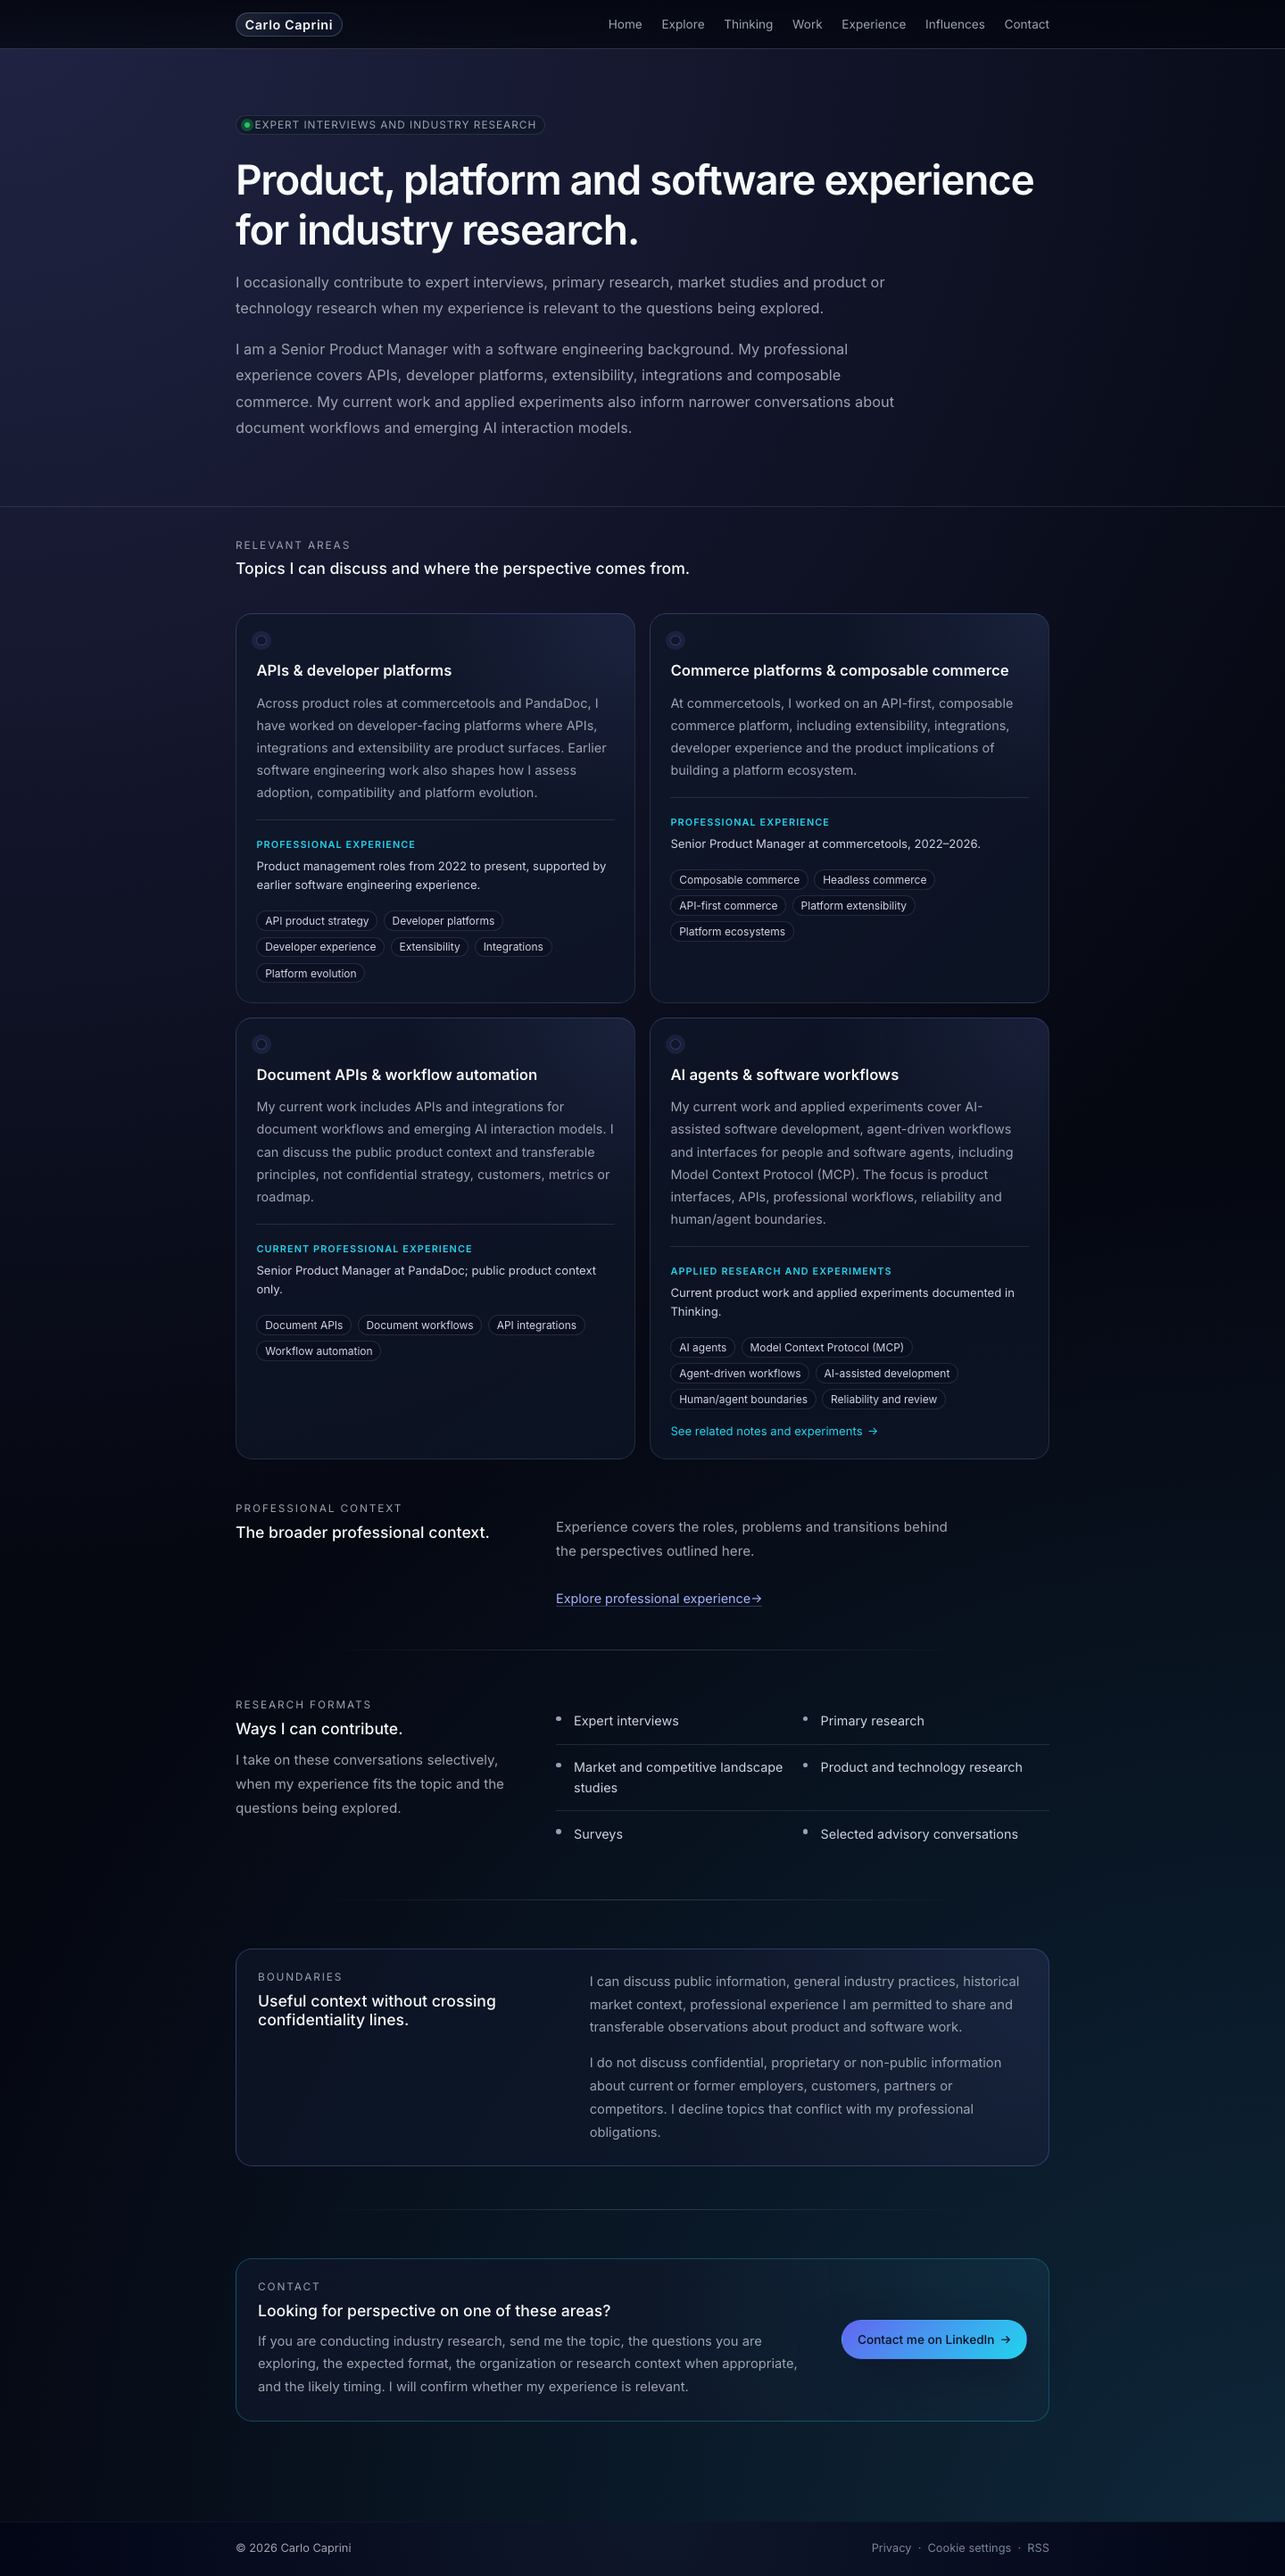
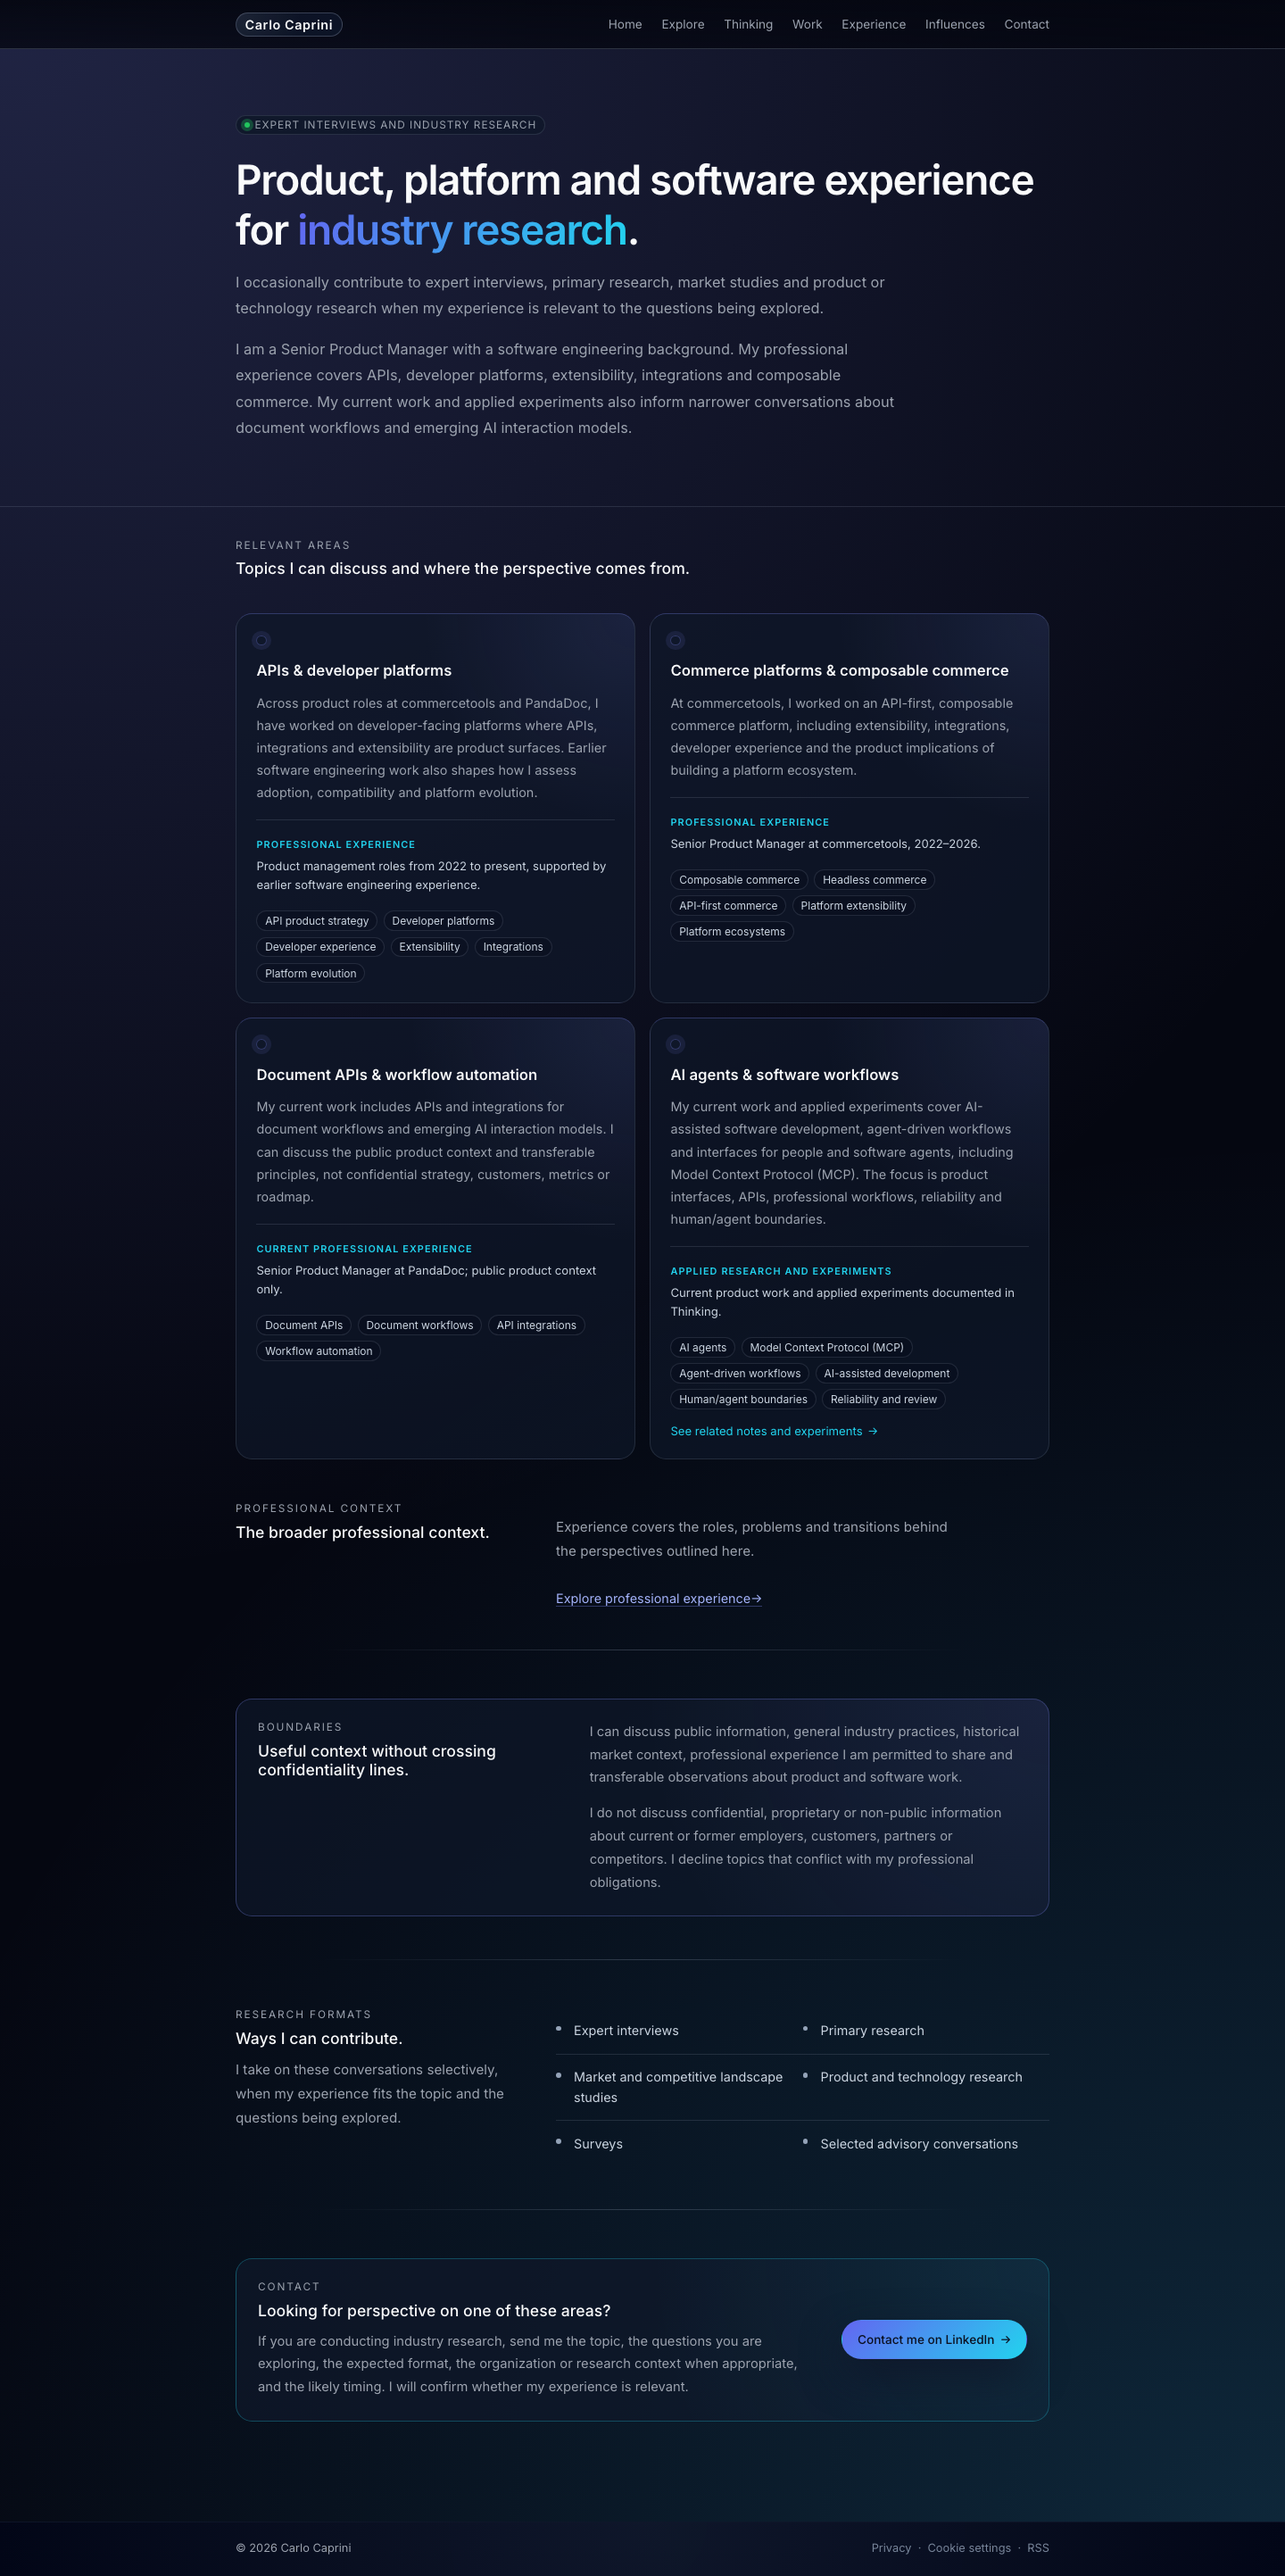
Align professional page hierarchy

diff --git a/tests/browser/editorial-journeys.spec.js b/tests/browser/editorial-journeys.spec.js
@@ -170,6 +170,8 @@ test("Home Contact keeps LinkedIn primary and adds restrained profile identity",
 test("Work explains recognizable problems and exactly two engagement models", async ({ page }) => {
   await page.goto("/work/");
 
+  await expect(page.getByRole("heading", { level: 1, name: "Working through difficult Product & Engineering problems." })).toBeVisible();
+  await expect(page.locator(".work-hero .hero-title .highlight")).toHaveText("Product & Engineering");
   await expect(page.getByRole("heading", { name: "When the problem crosses boundaries." })).toBeVisible();
   await expect(page.locator(".work-situation-list > li")).toHaveCount(6);
   await expect(page.locator(".work-engagement")).toHaveCount(2);
@@ -212,6 +214,20 @@ test("Experience leads with direct work and leaves credentials out of the public
   await expect(page.getByText("Career context", { exact: true })).toBeVisible();
   await expect(page.getByRole("link", { name: "How I can help", exact: true })).toHaveAttribute("href", "/work/");
   await expect(page.getByRole("link", { name: /See research topics and boundaries/ })).toHaveAttribute("href", "/industry-expertise/");
+  const independentOptionStyles = await page.locator(".experience-independent-option").evaluateAll((options) =>
+    options.map((option) => {
+      const paragraphStyle = getComputedStyle(option.querySelector(".section-description"));
+      const linkStyle = getComputedStyle(option.querySelector(".section-link"));
+      return {
+        paragraphFontSize: paragraphStyle.fontSize,
+        paragraphLineHeight: paragraphStyle.lineHeight,
+        linkColor: linkStyle.color,
+        linkFontSize: linkStyle.fontSize
+      };
+    })
+  );
+  expect(independentOptionStyles).toHaveLength(2);
+  expect(independentOptionStyles[1]).toEqual(independentOptionStyles[0]);
   await expect(page.getByRole("heading", { name: "Credentials and certifications" })).toHaveCount(0);
   await expect(page.locator("#credentials")).toHaveCount(0);
 });
@@ -226,6 +242,7 @@ test("Expert interviews and industry research distinguish professional experienc
   );
   await expect(page.getByText("Expert interviews and industry research", { exact: true })).toBeVisible();
   await expect(page.getByRole("heading", { level: 1, name: "Product, platform and software experience for industry research." })).toBeVisible();
+  await expect(page.locator(".industry-expertise-hero .hero-title .highlight")).toHaveText("industry research");
   await expect(page.locator(".industry-expertise-area")).toHaveCount(4);
   await expect(page.locator(".industry-expertise-area h3")).toHaveText([
     "APIs & developer platforms",
@@ -248,6 +265,14 @@ test("Expert interviews and industry research distinguish professional experienc
   await expect(page.getByText("I do not discuss confidential, proprietary or non-public information about current or former employers, customers, partners or competitors. I decline topics that conflict with my professional obligations.", { exact: true })).toBeVisible();
   await expect(page.getByRole("link", { name: /Explore professional experience/ })).toHaveAttribute("href", "/experience/");
   await expect(page.getByRole("link", { name: /Contact me on LinkedIn/ })).toHaveAttribute("href", "https://www.linkedin.com/in/carlocaprini/");
+  const sectionOrder = await page.locator(".industry-expertise-experience-section, .industry-expertise-boundaries-section, .industry-expertise-formats-section, .industry-expertise-contact-section")
+    .evaluateAll((sections) => sections.map((section) => section.className));
+  expect(sectionOrder).toEqual([
+    "section industry-expertise-experience-section",
+    "section industry-expertise-boundaries-section",
+    "section industry-expertise-formats-section",
+    "section industry-expertise-contact-section"
+  ]);
 
   const expertiseProfile = await page.locator('script[type="application/ld+json"]').evaluateAll((scripts) =>
     scripts.map((script) => JSON.parse(script.textContent)).find((entry) =>

diff --git a/_layouts/industry-expertise.html b/_layouts/industry-expertise.html
@@ -10,7 +10,7 @@ layout: default
           <span class="hero-label-dot"></span>
           <span>{{ page.hero.label }}</span>
         </div>
-        <h1 class="hero-title hero-title--compact">{{ page.hero.title }}</h1>
+        <h1 class="hero-title hero-title--compact">{{ page.hero.title_prefix }}<span class="highlight">{{ page.hero.title_highlight }}</span>{{ page.hero.title_suffix }}</h1>
         {% for paragraph in page.hero.paragraphs %}
           <p class="hero-subtitle hero-subtitle--wide">{{ paragraph }}</p>
         {% endfor %}
@@ -59,19 +59,6 @@ layout: default
     </div>
   </section>
 
-  <section class="section industry-expertise-formats-section" aria-labelledby="industry-expertise-formats-title">
-    <div class="container industry-expertise-split">
-      <div>
-        <div class="section-eyebrow">{{ page.formats.eyebrow }}</div>
-        <h2 class="section-title" id="industry-expertise-formats-title">{{ page.formats.title }}</h2>
-        <p class="section-description">{{ page.formats.intro }}</p>
-      </div>
-      <ul class="industry-expertise-format-list">
-        {% for format in page.formats.items %}<li>{{ format }}</li>{% endfor %}
-      </ul>
-    </div>
-  </section>
-
   <section class="section industry-expertise-boundaries-section" aria-labelledby="industry-expertise-boundaries-title">
     <div class="container">
       <div class="industry-expertise-boundaries-panel">
@@ -83,6 +70,19 @@ layout: default
           {% for paragraph in page.boundaries.paragraphs %}<p>{{ paragraph }}</p>{% endfor %}
         </div>
       </div>
+    </div>
+  </section>
+
+  <section class="section industry-expertise-formats-section" aria-labelledby="industry-expertise-formats-title">
+    <div class="container industry-expertise-split">
+      <div>
+        <div class="section-eyebrow">{{ page.formats.eyebrow }}</div>
+        <h2 class="section-title" id="industry-expertise-formats-title">{{ page.formats.title }}</h2>
+        <p class="section-description">{{ page.formats.intro }}</p>
+      </div>
+      <ul class="industry-expertise-format-list">
+        {% for format in page.formats.items %}<li>{{ format }}</li>{% endfor %}
+      </ul>
     </div>
   </section>
 

diff --git a/_layouts/experience.html b/_layouts/experience.html
@@ -62,11 +62,15 @@ layout: default
         <div class="section-eyebrow">{{ page.independent_work.eyebrow }}</div>
         <h2 class="section-title">{{ page.independent_work.title }}</h2>
       </div>
-      <div>
-        <p class="section-description">{{ page.independent_work.body }}</p>
-        <a class="section-link" href="{{ page.independent_work.action.url | relative_url }}" data-analytics-event="work_open" data-analytics-link-context="experience_independent_work">{{ page.independent_work.action.label }} <span aria-hidden="true">→</span></a>
-        <p class="experience-independent-research">{{ page.independent_work.research_body }}</p>
-        <a class="section-link experience-independent-link--secondary" href="{{ page.independent_work.research_action.url | relative_url }}" data-analytics-event="industry_expertise_open" data-analytics-link-context="experience_industry_expertise" data-analytics-destination="{{ page.independent_work.research_action.url }}">{{ page.independent_work.research_action.label }} <span aria-hidden="true">→</span></a>
+      <div class="experience-independent-options">
+        <div class="experience-independent-option">
+          <p class="section-description">{{ page.independent_work.body }}</p>
+          <a class="section-link" href="{{ page.independent_work.action.url | relative_url }}" data-analytics-event="work_open" data-analytics-link-context="experience_independent_work">{{ page.independent_work.action.label }} <span aria-hidden="true">→</span></a>
+        </div>
+        <div class="experience-independent-option">
+          <p class="section-description">{{ page.independent_work.research_body }}</p>
+          <a class="section-link" href="{{ page.independent_work.research_action.url | relative_url }}" data-analytics-event="industry_expertise_open" data-analytics-link-context="experience_industry_expertise" data-analytics-destination="{{ page.independent_work.research_action.url }}">{{ page.independent_work.research_action.label }} <span aria-hidden="true">→</span></a>
+        </div>
       </div>
     </div>
   </section>

diff --git a/_layouts/work.html b/_layouts/work.html
@@ -9,7 +9,7 @@ layout: default
           <span class="hero-label-dot"></span>
           <span>{{ page.hero.label }}</span>
         </div>
-        <h1 class="hero-title hero-title--compact">{{ page.hero.title }}</h1>
+        <h1 class="hero-title hero-title--compact">{{ page.hero.title_prefix }}<span class="highlight">{{ page.hero.title_highlight }}</span>{{ page.hero.title_suffix }}</h1>
         {% for paragraph in page.hero.paragraphs %}
           <p class="hero-subtitle hero-subtitle--wide">{{ paragraph }}</p>
         {% endfor %}

diff --git a/_includes/styles/experience-contact-and-privacy.css b/_includes/styles/experience-contact-and-privacy.css
@@ -226,19 +226,10 @@
   margin-top: 0.9rem;
 }
 
-.experience-independent-research {
-  margin: 1.2rem 0 0;
+.experience-independent-option + .experience-independent-option {
+  margin-top: 1.1rem;
   padding-top: 1.1rem;
   border-top: 1px solid var(--color-line);
-  color: var(--color-text-muted);
-  font-size: 0.88rem;
-  line-height: 1.7;
-}
-
-.experience-independent-panel .experience-independent-link--secondary {
-  margin-top: 0.65rem;
-  color: var(--color-text-secondary);
-  font-size: 0.82rem;
 }
 
 .experience-timeline {

diff --git a/pages/industry-expertise.md b/pages/industry-expertise.md
@@ -7,7 +7,9 @@ meta_description: Selected expert interviews and industry research on software p
 last_modified_at: 2026-10-07
 hero:
   label: Expert interviews and industry research
-  title: Product, platform and software experience for industry research.
+  title_prefix: "Product, platform and software experience for "
+  title_highlight: industry research
+  title_suffix: "."
   paragraphs:
     - I occasionally contribute to expert interviews, primary research, market studies and product or technology research when my experience is relevant to the questions being explored.
     - I am a Senior Product Manager with a software engineering background. My professional experience covers APIs, developer platforms, extensibility, integrations and composable commerce. My current work and applied experiments also inform narrower conversations about document workflows and emerging AI interaction models.
@@ -71,6 +73,12 @@ experience:
   action:
     label: Explore professional experience
     url: /experience/
+boundaries:
+  eyebrow: Boundaries
+  title: Useful context without crossing confidentiality lines.
+  paragraphs:
+    - I can discuss public information, general industry practices, historical market context, professional experience I am permitted to share and transferable observations about product and software work.
+    - I do not discuss confidential, proprietary or non-public information about current or former employers, customers, partners or competitors. I decline topics that conflict with my professional obligations.
 formats:
   eyebrow: Research formats
   title: Ways I can contribute.
@@ -82,12 +90,6 @@ formats:
     - Product and technology research
     - Surveys
     - Selected advisory conversations
-boundaries:
-  eyebrow: Boundaries
-  title: Useful context without crossing confidentiality lines.
-  paragraphs:
-    - I can discuss public information, general industry practices, historical market context, professional experience I am permitted to share and transferable observations about product and software work.
-    - I do not discuss confidential, proprietary or non-public information about current or former employers, customers, partners or competitors. I decline topics that conflict with my professional obligations.
 contact:
   eyebrow: Contact
   title: Looking for perspective on one of these areas?

diff --git a/pages/work.md b/pages/work.md
@@ -7,7 +7,9 @@ meta_description: Independent Product & Engineering reviews and advisory work fo
 last_modified_at: 2026-09-22
 hero:
   label: Work
-  title: Working through difficult Product & Engineering problems.
+  title_prefix: "Working through difficult "
+  title_highlight: "Product & Engineering"
+  title_suffix: " problems."
   paragraphs:
     - I occasionally work with software teams when a product, technical or organisational problem has become difficult to reason about from inside the system.
     - The aim is to understand the problem, make the trade-offs visible and leave the team with something useful to act on.
